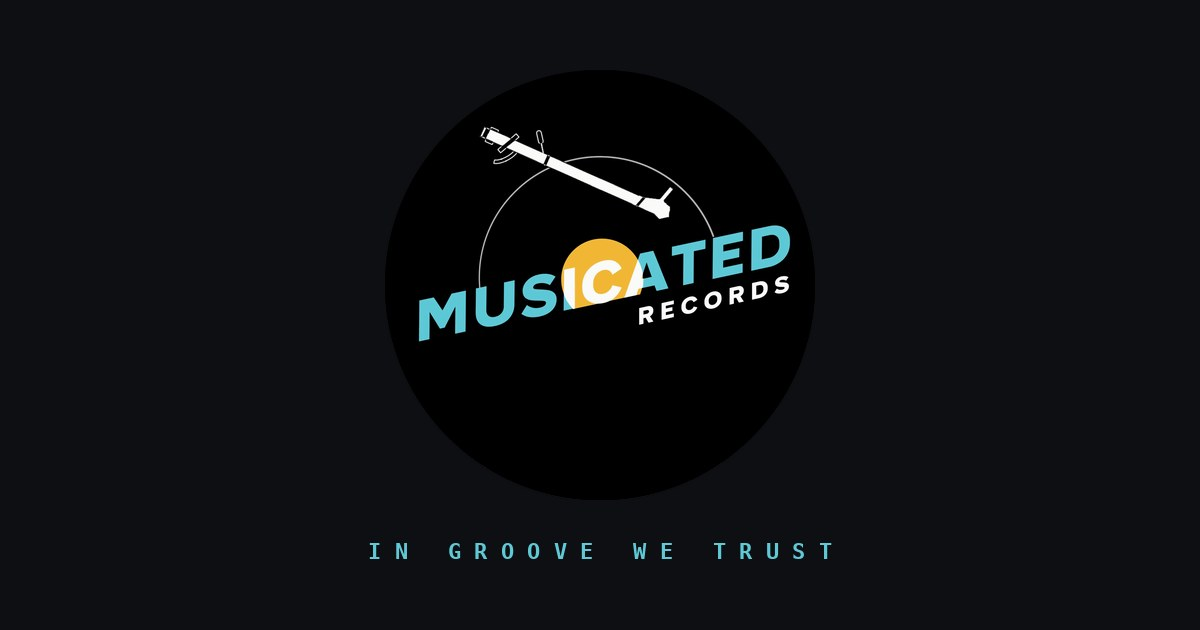
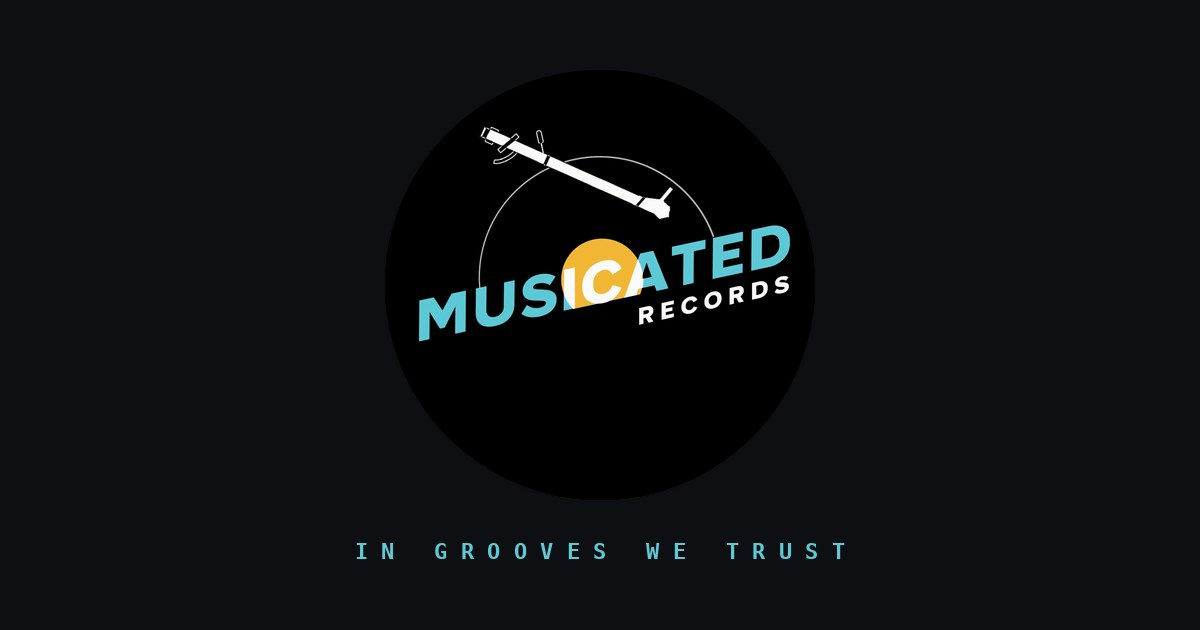
Grooves, plural
'In Groove We Trust' -> 'In Grooves We Trust' in 27 places: nav and footer
brand lines on all 7 pages, the footer bottom row, the home title tag and
meta description, the About alt text, the hero sentence, the styles.css
header and AGENTS.md.

og-card.jpg regenerated again — the tagline is rendered into that image,
so a text-only change would have left link previews saying 'Groove'.

Eric's radio show and the merch tee keep 'In House We Trust' as before.

Changed region(s): [[0.5242, 0.8444, 0.7092, 0.9048], [0.37, 0.8444, 0.4933, 0.9048], [0.3083, 0.8444, 0.3392, 0.9048]]

diff --git a/index.html b/index.html
@@ -3,8 +3,8 @@
 <head>
 <meta charset="utf-8" />
 <meta name="viewport" content="width=device-width, initial-scale=1" />
-<title>Musicated Records — In Groove We Trust</title>
-<meta name="description" content="UK independent label & events collective. Classic and Deep Soulful House from a community of artists, producers and DJs. In Groove We Trust." />
+<title>Musicated Records — In Grooves We Trust</title>
+<meta name="description" content="UK independent label & events collective. Classic and Deep Soulful House from a community of artists, producers and DJs. In Grooves We Trust." />
 <meta property="og:title" content="Musicated Records" />
 <meta property="og:description" content="Classic & Deep Soulful House. UK label, events collective and music house for TV/Film." />
 <meta property="og:image" content="https://musicatedrecords.com/assets/og-card.jpg" />
@@ -22,7 +22,7 @@
 <body>
 <header class="nav">
   <div class="wrap nav__inner">
-    <a class="brand" href="index.html"><span class="brand__mark" aria-hidden="true"></span><span><span class="brand__name">MUSIC<em>ATED</em></span><span class="brand__sub">In Groove We Trust</span></span></a>
+    <a class="brand" href="index.html"><span class="brand__mark" aria-hidden="true"></span><span><span class="brand__name">MUSIC<em>ATED</em></span><span class="brand__sub">In Grooves We Trust</span></span></a>
     <nav><ul class="nav__links"><li><a href="index.html">Home</a></li><li><a href="listen.html">Buy / Listen</a></li><li><a href="live.html">Live</a></li><li><a href="sync.html">Sync</a></li><li><a href="about.html">About</a></li><li><a href="contact.html">Contact</a></li></ul></nav>
     <a class="nav__cta" href="contact.html">Get in touch →</a>
     <button class="nav__toggle" aria-label="Menu" aria-expanded="false"><svg width="22" height="22" viewBox="0 0 24 24" fill="none" stroke="currentColor" stroke-width="2"><path d="M3 6h18M3 12h18M3 18h18"/></svg></button>
@@ -34,7 +34,7 @@
     <div>
       <span class="eyebrow"><span class="dot"></span> Est. With Intent</span>
       <h1 class="hero__title">Classic, deep <em>&amp; soulful</em> <span class="gold">house.</span></h1>
-      <p class="hero__sub">Musicated is a UK independent label and events collective. We create music, throw parties and occasionally take over. In groove we trust.</p>
+      <p class="hero__sub">Musicated is a UK independent label and events collective. We create music, throw parties and occasionally take over. In grooves we trust.</p>
       <div class="hero__cta-row"><a class="btn btn--primary" href="listen.html">Listen now <svg viewBox="0 0 24 24" fill="none" stroke="currentColor" stroke-width="2.5"><path d="M5 3l14 9-14 9V3z" fill="currentColor"/></svg></a><a class="btn btn--ghost" href="listen.html">The catalogue &rarr;</a></div>
     </div>
     <div class="hero__viz reveal"><canvas id="heroViz" role="img" aria-label="Spinning vinyl visualiser with audio reactive EQ ring"></canvas><img class="hero__viz__logo" src="assets/musicated-logo-circle.png" alt="Musicated Records" /></div>
@@ -57,7 +57,7 @@
 <section class="section"><div class="wrap"><div class="def-card reveal"><div class="def-card__copy"><h2 class="word">musi<em>cated</em></h2><p class="body">Of a crowd, or person — <em>experiencing feelings of euphoria after having heard a dope track.</em></p><p class="phrase">&ldquo;He ended the DJ set for this musicated crowd with a banger!&rdquo;</p></div><div class="def-card__floor"><canvas id="crowdViz" role="img" aria-label="Abstract animation of a dancefloor: pulses of sound travelling out from the booth through a crowd, each point lighting up as the beat reaches it."></canvas></div></div></div></section>
 <section class="section"><div class="wrap two-col"><div class="media-frame media-frame--logo aspect-1x1 reveal"><img src="assets/musicated-logo-circle.png" alt="Musicated Records logo" /></div><div class="copy"><p class="kicker">/ FOR RAVE CULTURE</p><h2 class="h2">A record label and an <em>events collective</em>.</h2><p>Musicated is a UK independent label and an events collective creating various things for rave culture — records, parties, radio shows, sync.</p><p>We also score and place music across genres for TV and Film. Our broadcaster clients include <strong style="color:#fff">Sony/EMI</strong> and <strong style="color:#fff">BMG</strong>. Our dynamic roster of artists and producers sit at the forefront of the contemporary soulful house movement.</p><div class="tag-row" style="margin-top:24px"><span class="tag tag--teal">Deep House</span><span class="tag tag--teal">Soulful House</span><span class="tag tag--teal">Garage House</span><span class="tag tag--gold">Afro House</span><span class="tag tag--gold">Hip-Hop</span><span class="tag">TV / Film Sync</span></div></div></div></section>
 <section class="newsletter"><div class="wrap newsletter__row"><div><p class="kicker">/ JOIN THE FAMILY</p><h2>Stay Up to <em style="color:var(--teal); font-style:normal">Date</em>.</h2></div><form data-form-name="newsletter"><input type="email" name="email" placeholder="email@yours.com" required /><button type="submit">Subscribe</button></form></div></section>
-<footer class="site"><div class="wrap site__grid"><div class="site__brand"><a class="brand" href="index.html"><span class="brand__mark" aria-hidden="true"></span><span><span class="brand__name">MUSIC<em>ATED</em></span><span class="brand__sub">In Groove We Trust</span></span></a><p style="margin-top:18px">UK independent label, events collective, and music house. Classic, deep &amp; soulful house — and the people who make it.</p><div class="socials" style="margin-top:18px"><a href="https://www.instagram.com/musicatedrecords/" target="_blank" rel="noopener" aria-label="Instagram"><svg width="16" height="16" viewBox="0 0 24 24" fill="none" stroke="currentColor" stroke-width="2"><rect x="3" y="3" width="18" height="18" rx="5"/><circle cx="12" cy="12" r="4"/><circle cx="17.5" cy="6.5" r="1" fill="currentColor" stroke="none"/></svg></a><a href="https://www.facebook.com/musicatedrecords/" target="_blank" rel="noopener" aria-label="Facebook"><svg width="16" height="16" viewBox="0 0 24 24" fill="currentColor"><path d="M13 22v-8h3l1-4h-4V7.5c0-1.1.4-2 2-2h2V2c-.4-.05-1.6-.2-3-.2-3 0-5 1.8-5 5.1V10H6v4h3v8h4z"/></svg></a><a href="https://www.youtube.com/channel/UCZgfJ7ZeAhPUknXXtB20-mw" target="_blank" rel="noopener" aria-label="YouTube"><svg width="16" height="16" viewBox="0 0 24 24" fill="currentColor"><path d="M23 7.3c-.2-1.6-1.5-2.8-3-2.9C17.8 4 12 4 12 4s-5.8 0-8 .4c-1.5.1-2.8 1.3-3 2.9C.6 9.5.6 12 .6 12s0 2.5.4 4.7c.2 1.6 1.5 2.8 3 2.9 2.2.4 8 .4 8 .4s5.8 0 8-.4c1.5-.1 2.8-1.3 3-2.9.4-2.2.4-4.7.4-4.7s0-2.5-.4-4.7zM10 16V8l6 4-6 4z"/></svg></a><a href="https://soundcloud.com/musicatedrecords" target="_blank" rel="noopener" aria-label="SoundCloud"><svg width="16" height="16" viewBox="0 0 24 24" fill="currentColor"><path d="M2 14v3h1v-3H2zm2-2v5h1v-5H4zm2-1v6h1v-6H6zm2-2v8h1V9H8zm9 0c-.7 0-1.4.2-2 .5V18h8c1.7 0 3-1.3 3-3s-1.3-3-3-3c-.3 0-.5 0-.7.1C20.8 11.3 19 9 17 9z"/></svg></a></div></div><div><h4>Catalog</h4><ul><li><a href="listen.html">Buy / Listen</a></li><li><a href="listen.html#stores">Streaming stores</a></li></ul></div><div><h4>The label</h4><ul><li><a href="live.html">Live / Stream</a></li><li><a href="sync.html">Sync &middot; TV / Film</a></li><li><a href="about.html">About</a></li></ul></div><div><h4>Talk to us</h4><ul><li><a href="contact.html">General enquiries</a></li><li><a href="mailto:sync@musicatedrecords.com">Sync &amp; licensing</a></li><li><a href="mailto:info@musicatedrecords.com">info@musicatedrecords.com</a></li></ul></div></div><div class="wrap site__bottom"><span>© 2026 Musicated Records · UK · All rights reserved</span><span>In Groove We Trust</span></div>  <div class="wrap site__credit">
+<footer class="site"><div class="wrap site__grid"><div class="site__brand"><a class="brand" href="index.html"><span class="brand__mark" aria-hidden="true"></span><span><span class="brand__name">MUSIC<em>ATED</em></span><span class="brand__sub">In Grooves We Trust</span></span></a><p style="margin-top:18px">UK independent label, events collective, and music house. Classic, deep &amp; soulful house — and the people who make it.</p><div class="socials" style="margin-top:18px"><a href="https://www.instagram.com/musicatedrecords/" target="_blank" rel="noopener" aria-label="Instagram"><svg width="16" height="16" viewBox="0 0 24 24" fill="none" stroke="currentColor" stroke-width="2"><rect x="3" y="3" width="18" height="18" rx="5"/><circle cx="12" cy="12" r="4"/><circle cx="17.5" cy="6.5" r="1" fill="currentColor" stroke="none"/></svg></a><a href="https://www.facebook.com/musicatedrecords/" target="_blank" rel="noopener" aria-label="Facebook"><svg width="16" height="16" viewBox="0 0 24 24" fill="currentColor"><path d="M13 22v-8h3l1-4h-4V7.5c0-1.1.4-2 2-2h2V2c-.4-.05-1.6-.2-3-.2-3 0-5 1.8-5 5.1V10H6v4h3v8h4z"/></svg></a><a href="https://www.youtube.com/channel/UCZgfJ7ZeAhPUknXXtB20-mw" target="_blank" rel="noopener" aria-label="YouTube"><svg width="16" height="16" viewBox="0 0 24 24" fill="currentColor"><path d="M23 7.3c-.2-1.6-1.5-2.8-3-2.9C17.8 4 12 4 12 4s-5.8 0-8 .4c-1.5.1-2.8 1.3-3 2.9C.6 9.5.6 12 .6 12s0 2.5.4 4.7c.2 1.6 1.5 2.8 3 2.9 2.2.4 8 .4 8 .4s5.8 0 8-.4c1.5-.1 2.8-1.3 3-2.9.4-2.2.4-4.7.4-4.7s0-2.5-.4-4.7zM10 16V8l6 4-6 4z"/></svg></a><a href="https://soundcloud.com/musicatedrecords" target="_blank" rel="noopener" aria-label="SoundCloud"><svg width="16" height="16" viewBox="0 0 24 24" fill="currentColor"><path d="M2 14v3h1v-3H2zm2-2v5h1v-5H4zm2-1v6h1v-6H6zm2-2v8h1V9H8zm9 0c-.7 0-1.4.2-2 .5V18h8c1.7 0 3-1.3 3-3s-1.3-3-3-3c-.3 0-.5 0-.7.1C20.8 11.3 19 9 17 9z"/></svg></a></div></div><div><h4>Catalog</h4><ul><li><a href="listen.html">Buy / Listen</a></li><li><a href="listen.html#stores">Streaming stores</a></li></ul></div><div><h4>The label</h4><ul><li><a href="live.html">Live / Stream</a></li><li><a href="sync.html">Sync &middot; TV / Film</a></li><li><a href="about.html">About</a></li></ul></div><div><h4>Talk to us</h4><ul><li><a href="contact.html">General enquiries</a></li><li><a href="mailto:sync@musicatedrecords.com">Sync &amp; licensing</a></li><li><a href="mailto:info@musicatedrecords.com">info@musicatedrecords.com</a></li></ul></div></div><div class="wrap site__bottom"><span>© 2026 Musicated Records · UK · All rights reserved</span><span>In Grooves We Trust</span></div>  <div class="wrap site__credit">
     Site by <a href="https://www.brucemacvaughn.com" target="_blank" rel="noopener">Bruce Mac Vaughn</a>
   </div>
 </footer>

diff --git a/about.html b/about.html
@@ -27,7 +27,7 @@
       <span class="brand__mark" aria-hidden="true"></span>
       <span>
         <span class="brand__name">MUSIC<em>ATED</em></span>
-        <span class="brand__sub">In Groove We Trust</span>
+        <span class="brand__sub">In Grooves We Trust</span>
       </span>
     </a>
     <nav>
@@ -66,7 +66,7 @@
 
     <div class="bio reveal">
       <div class="bio__photo">
-        <img src="assets/musicated-logo-circle.png" alt="Musicated Records — In Groove We Trust" />
+        <img src="assets/musicated-logo-circle.png" alt="Musicated Records — In Grooves We Trust" />
       </div>
       <div class="bio__copy">
         <p style="font-size:22px; color:#fff;">Musicated Records is a UK independent label and events collective creating various things for rave culture.</p>
@@ -103,7 +103,7 @@
         <span class="brand__mark" aria-hidden="true"></span>
         <span>
           <span class="brand__name">MUSIC<em>ATED</em></span>
-          <span class="brand__sub">In Groove We Trust</span>
+          <span class="brand__sub">In Grooves We Trust</span>
         </span>
       </a>
       <p style="margin-top:18px">UK independent label, events collective, and music house. Classic, deep &amp; soulful house — and the people who make it.</p>
@@ -148,7 +148,7 @@
   </div>
   <div class="wrap site__bottom">
     <span>© 2026 Musicated Records · UK · All rights reserved</span>
-    <span>In Groove We Trust</span>
+    <span>In Grooves We Trust</span>
   </div>
   <div class="wrap site__credit">
     Site by <a href="https://www.brucemacvaughn.com" target="_blank" rel="noopener">Bruce Mac Vaughn</a>

diff --git a/contact.html b/contact.html
@@ -27,7 +27,7 @@
       <span class="brand__mark" aria-hidden="true"></span>
       <span>
         <span class="brand__name">MUSIC<em>ATED</em></span>
-        <span class="brand__sub">In Groove We Trust</span>
+        <span class="brand__sub">In Grooves We Trust</span>
       </span>
     </a>
     <nav>
@@ -115,7 +115,7 @@
         <span class="brand__mark" aria-hidden="true"></span>
         <span>
           <span class="brand__name">MUSIC<em>ATED</em></span>
-          <span class="brand__sub">In Groove We Trust</span>
+          <span class="brand__sub">In Grooves We Trust</span>
         </span>
       </a>
       <p style="margin-top:18px">UK independent label, events collective, and music house. Classic, deep &amp; soulful house — and the people who make it.</p>
@@ -160,7 +160,7 @@
   </div>
   <div class="wrap site__bottom">
     <span>© 2026 Musicated Records · UK · All rights reserved</span>
-    <span>In Groove We Trust</span>
+    <span>In Grooves We Trust</span>
   </div>
   <div class="wrap site__credit">
     Site by <a href="https://www.brucemacvaughn.com" target="_blank" rel="noopener">Bruce Mac Vaughn</a>

diff --git a/listen.html b/listen.html
@@ -27,7 +27,7 @@
       <span class="brand__mark" aria-hidden="true"></span>
       <span>
         <span class="brand__name">MUSIC<em>ATED</em></span>
-        <span class="brand__sub">In Groove We Trust</span>
+        <span class="brand__sub">In Grooves We Trust</span>
       </span>
     </a>
     <nav>
@@ -154,7 +154,7 @@
         <span class="brand__mark" aria-hidden="true"></span>
         <span>
           <span class="brand__name">MUSIC<em>ATED</em></span>
-          <span class="brand__sub">In Groove We Trust</span>
+          <span class="brand__sub">In Grooves We Trust</span>
         </span>
       </a>
       <p style="margin-top:18px">UK independent label, events collective, and music house. Classic, deep &amp; soulful house — and the people who make it.</p>
@@ -199,7 +199,7 @@
   </div>
   <div class="wrap site__bottom">
     <span>© 2026 Musicated Records · UK · All rights reserved</span>
-    <span>In Groove We Trust</span>
+    <span>In Grooves We Trust</span>
   </div>
   <div class="wrap site__credit">
     Site by <a href="https://www.brucemacvaughn.com" target="_blank" rel="noopener">Bruce Mac Vaughn</a>

diff --git a/live.html b/live.html
@@ -27,7 +27,7 @@
       <span class="brand__mark" aria-hidden="true"></span>
       <span>
         <span class="brand__name">MUSIC<em>ATED</em></span>
-        <span class="brand__sub">In Groove We Trust</span>
+        <span class="brand__sub">In Grooves We Trust</span>
       </span>
     </a>
     <nav>
@@ -138,7 +138,7 @@
         <span class="brand__mark" aria-hidden="true"></span>
         <span>
           <span class="brand__name">MUSIC<em>ATED</em></span>
-          <span class="brand__sub">In Groove We Trust</span>
+          <span class="brand__sub">In Grooves We Trust</span>
         </span>
       </a>
       <p style="margin-top:18px">UK independent label, events collective, and music house. Classic, deep &amp; soulful house — and the people who make it.</p>
@@ -183,7 +183,7 @@
   </div>
   <div class="wrap site__bottom">
     <span>© 2026 Musicated Records · UK · All rights reserved</span>
-    <span>In Groove We Trust</span>
+    <span>In Grooves We Trust</span>
   </div>
   <div class="wrap site__credit">
     Site by <a href="https://www.brucemacvaughn.com" target="_blank" rel="noopener">Bruce Mac Vaughn</a>

diff --git a/merch.html b/merch.html
@@ -27,7 +27,7 @@
       <span class="brand__mark" aria-hidden="true"></span>
       <span>
         <span class="brand__name">MUSIC<em>ATED</em></span>
-        <span class="brand__sub">In Groove We Trust</span>
+        <span class="brand__sub">In Grooves We Trust</span>
       </span>
     </a>
     <nav>
@@ -113,7 +113,7 @@
         <span class="brand__mark" aria-hidden="true"></span>
         <span>
           <span class="brand__name">MUSIC<em>ATED</em></span>
-          <span class="brand__sub">In Groove We Trust</span>
+          <span class="brand__sub">In Grooves We Trust</span>
         </span>
       </a>
       <p style="margin-top:18px">UK independent label, events collective, and music house. Classic, deep &amp; soulful house — and the people who make it.</p>
@@ -158,7 +158,7 @@
   </div>
   <div class="wrap site__bottom">
     <span>© 2026 Musicated Records · UK · All rights reserved</span>
-    <span>In Groove We Trust</span>
+    <span>In Grooves We Trust</span>
   </div>
   <div class="wrap site__credit">
     Site by <a href="https://www.brucemacvaughn.com" target="_blank" rel="noopener">Bruce Mac Vaughn</a>

diff --git a/sync.html b/sync.html
@@ -27,7 +27,7 @@
       <span class="brand__mark" aria-hidden="true"></span>
       <span>
         <span class="brand__name">MUSIC<em>ATED</em></span>
-        <span class="brand__sub">In Groove We Trust</span>
+        <span class="brand__sub">In Grooves We Trust</span>
       </span>
     </a>
     <nav>
@@ -146,7 +146,7 @@
         <span class="brand__mark" aria-hidden="true"></span>
         <span>
           <span class="brand__name">MUSIC<em>ATED</em></span>
-          <span class="brand__sub">In Groove We Trust</span>
+          <span class="brand__sub">In Grooves We Trust</span>
         </span>
       </a>
       <p style="margin-top:18px">UK independent label, events collective, and music house. Classic, deep &amp; soulful house — and the people who make it.</p>
@@ -191,7 +191,7 @@
   </div>
   <div class="wrap site__bottom">
     <span>© 2026 Musicated Records · UK · All rights reserved</span>
-    <span>In Groove We Trust</span>
+    <span>In Grooves We Trust</span>
   </div>
   <div class="wrap site__credit">
     Site by <a href="https://www.brucemacvaughn.com" target="_blank" rel="noopener">Bruce Mac Vaughn</a>

diff --git a/assets/styles.css b/assets/styles.css
@@ -1,5 +1,5 @@
 /* =========================================================
-   MUSICATED RECORDS — In Groove We Trust
+   MUSICATED RECORDS — In Grooves We Trust
    Design tokens, layout, components, motion
    ========================================================= */
 

diff --git a/AGENTS.md b/AGENTS.md
@@ -169,7 +169,7 @@ switching branches to fix a cosmetic problem — **stop and ask a human first.**
 ## Content rules
 
 - The home page hero ends **"In art we trust."** — this is Eric's deliberate wording. Leave it.
-- The label tagline is **"In Groove We Trust"** (changed from "In House We Trust" on 2026-08-29).
+- The label tagline is **"In Grooves We Trust"** (changed from "In House We Trust" on 2026-08-29).
   Two things deliberately keep the OLD wording and must not be swept up in a find-and-replace:
   Eric's radio show, **"In House We Trust"** (live.html episode titles and meta), and the
   **"In House We Trust Tee"** on the hidden merch page. Both are names, not the tagline.
